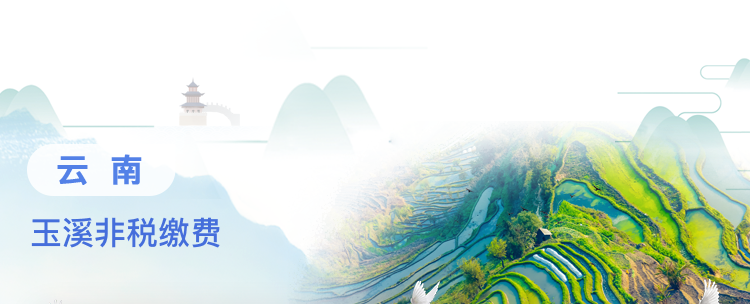
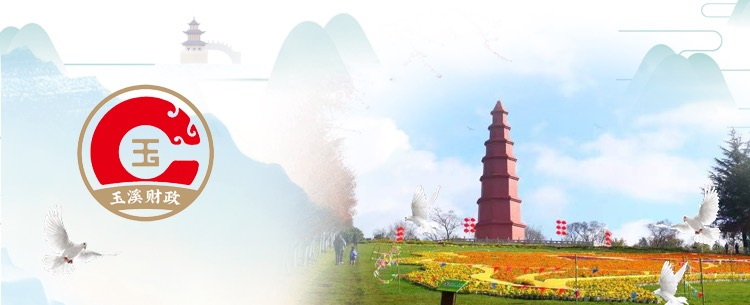
云南玉溪样式修改

diff --git a/src/530000_p/index.html b/src/530000_p/index.html
@@ -7,18 +7,19 @@
       #top {
         min-width: 1400px;
         width: 100%;
-        height: 290px;
-        background: url(./public/images/background_top.png) no-repeat;
-        background-size: 100% 100%;
-        margin: 0px auto;
+        height: 339px;
+        background-image: url(./public/images/background_top.png), url(./public/images/background_top.png);
+        background-size: auto 100%;
+        background-position: center;
       }
 
       #bottom {
         min-width: 1400px;
         width: 100%;
-        height: 310px;
-        background: url(./public/images/background_bottom.png) no-repeat;
-        background-size: 100% 100%;
+        height: 239px;
+        background-image: url(./public/images/background_bottom.png), url(./public/images/background_bottom.png);
+        background-size: auto 100%;
+        background-position: center;
       }
 
       #root {

diff --git a/src/530000_p/pages/home/index.js b/src/530000_p/pages/home/index.js
@@ -27,7 +27,7 @@ class Home extends React.Component {
       },
       {
         itemCode: '0',
-        modelPicture: require('../../public/images/yuxi.jpg'),
+        modelPicture: require('../../public/images/jiaoyu.jpg'),
         itemName: '教育缴费',
         modelUrl: 'index_education',
       },
@@ -72,7 +72,7 @@ class Home extends React.Component {
         <div className="outForm">
           <CustomerService />
           <div className="outForm_left">
-            <img src={require('../../public/images/background_left.jpg')} style={{ width: 620 }} />
+            <img src={require('../../public/images/background_left.png')} style={{ width: 620, marginLeft: '30%' }} />
           </div>
           <div className="outForm_right">
             <div className="onForm">

diff --git a/src/utils/baseURL.js b/src/utils/baseURL.js
@@ -15,8 +15,8 @@ if (process.env.NODE_ENV === 'development') {
   // baseURL = 'http://192.168.0.120:8090/webpay_new'; //吉林现场地址
   // baseURL = 'https://370200.epayservice.cn/webpay_new'; //青岛现场地址
 } else if (process.env.NODE_ENV === 'production') {
-  // baseURL = 'https://debug.epayservice.cn/webpay_new';
-  baseURL = 'https://api.epayservice.cn/webpay_new';
+  baseURL = 'https://debug.epayservice.cn/webpay_new';
+  // baseURL = 'https://api.epayservice.cn/webpay_new';
   // baseURL = 'https://370200.epayservice.cn/webpay_new'; //青岛现场地址
   // baseURL = 'http://192.168.1.120:8091/webpay_new'; //任雪健后台
   // baseURL = 'http://fsjf.czt.guizhou.gov.cn/webpay_new'; //贵州现场地址

diff --git a/src/530000_m/pages/home/index.vue b/src/530000_m/pages/home/index.vue
@@ -15,6 +15,10 @@
             <img src="../../public/images/icon/yuxi.jpg" alt="" />
             <div><span>玉溪不动产缴费</span></div>
           </div>
+          <div class="box" @click="indexEdu">
+            <img src="../../public/images/icon/jiaoyu_phone.jpg" alt="" />
+            <div><span>教育缴费</span></div>
+          </div>
         </div>
       </div>
       <div class="footer">
@@ -59,6 +63,11 @@ export default {
     indexPay() {
       this.$router.push({
         path: '/index_pay',
+      });
+    },
+    indexEdu() {
+      this.$router.push({
+        path: '/education',
       });
     },
     indexUrl() {

diff --git a/src/530000_p/service/api.js b/src/530000_p/service/api.js
@@ -1,6 +1,6 @@
 import base from 'utils/baseURL';
 
-const callback = 'http:/222.172.224.34:18008/success'; //传给后台的回调地址
+const callback = 'http:/222.172.224.34:18008/success'; //传给后台的回调地址 正式
 
 const region = '640000'; //区划号
 
